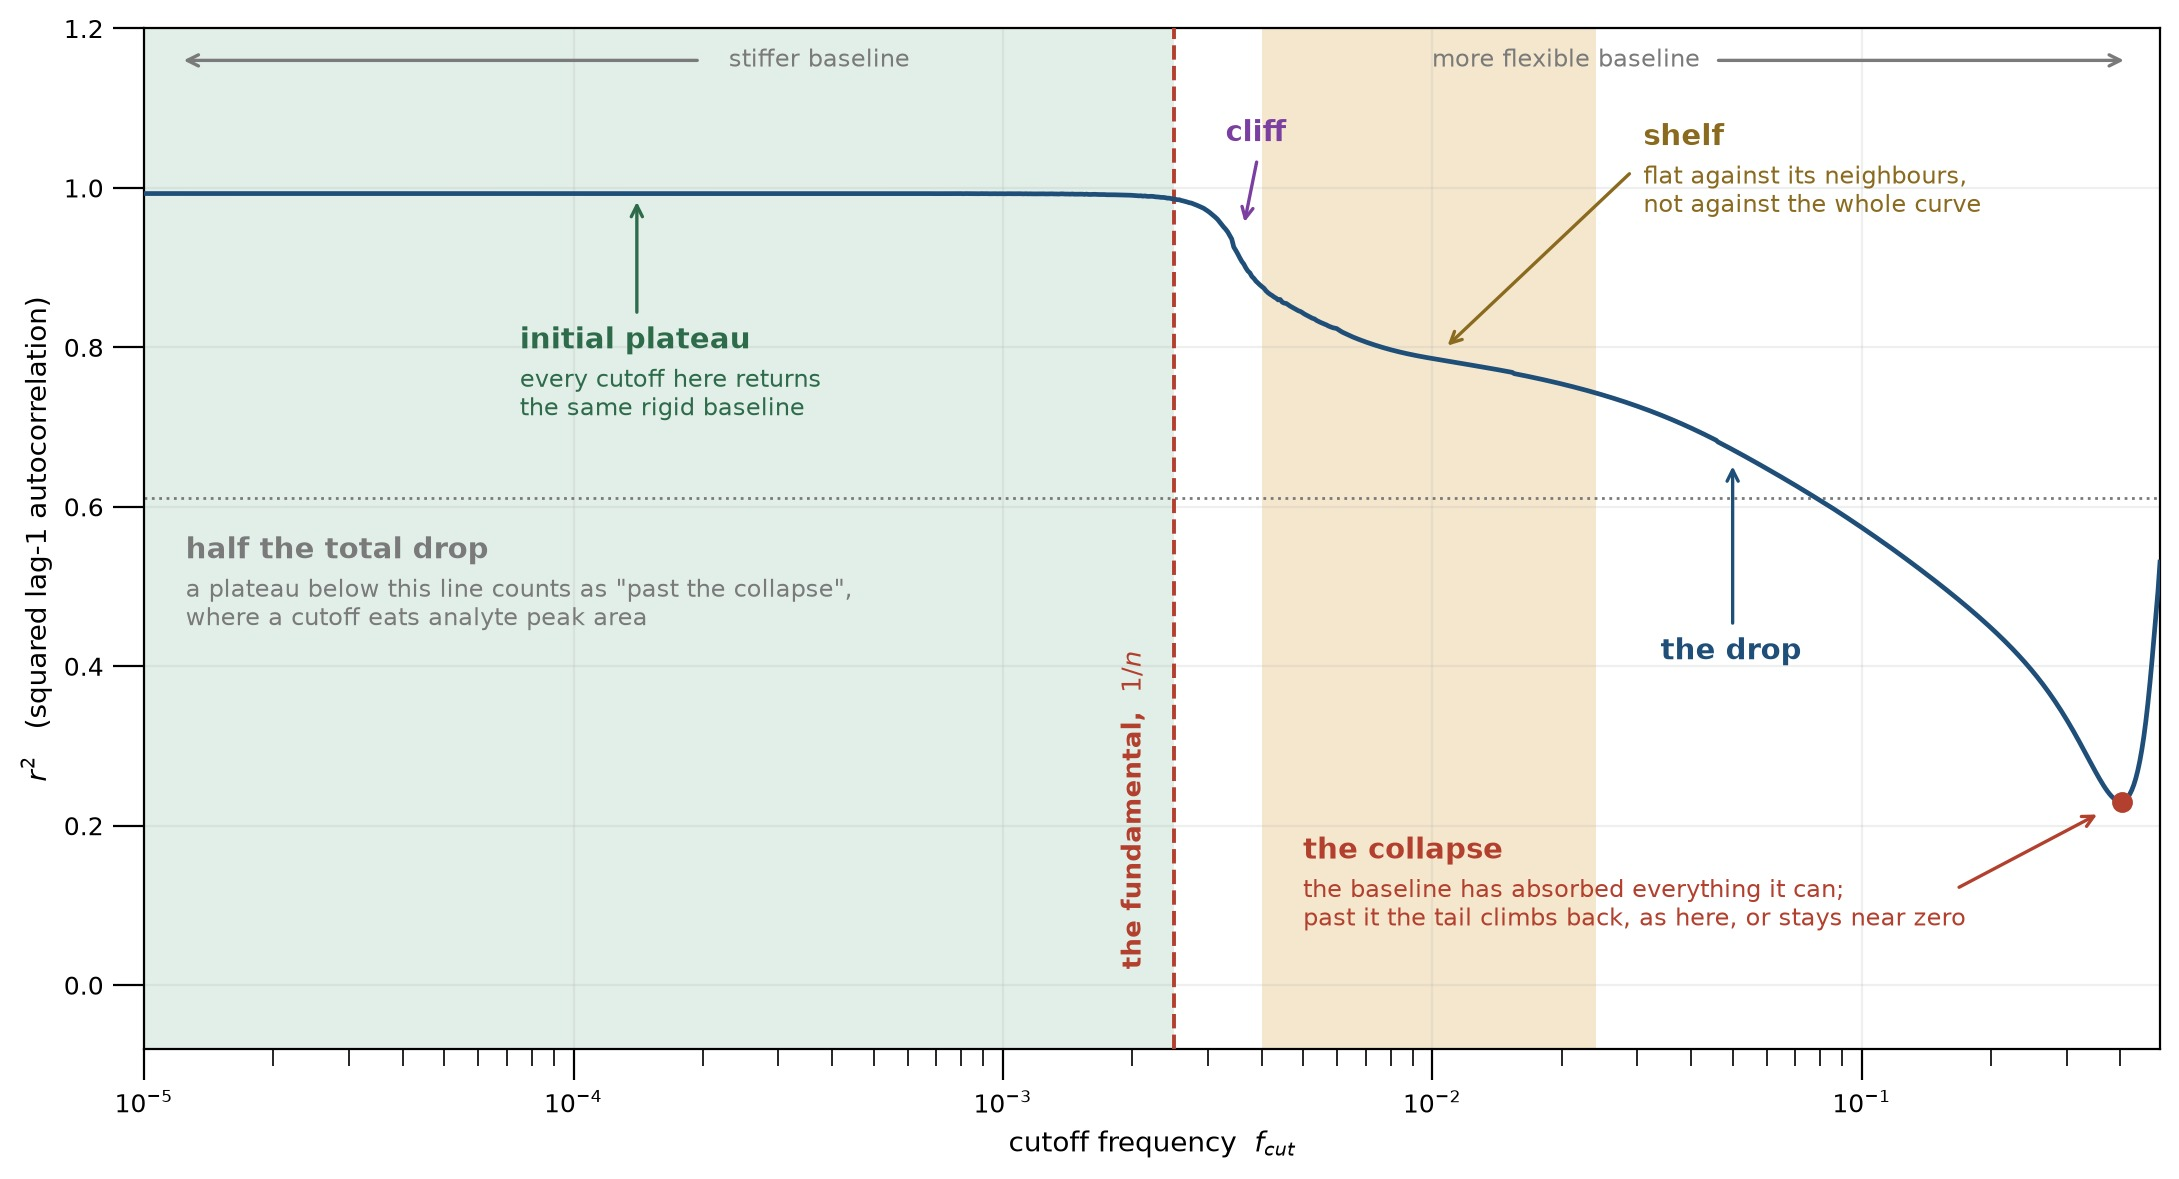
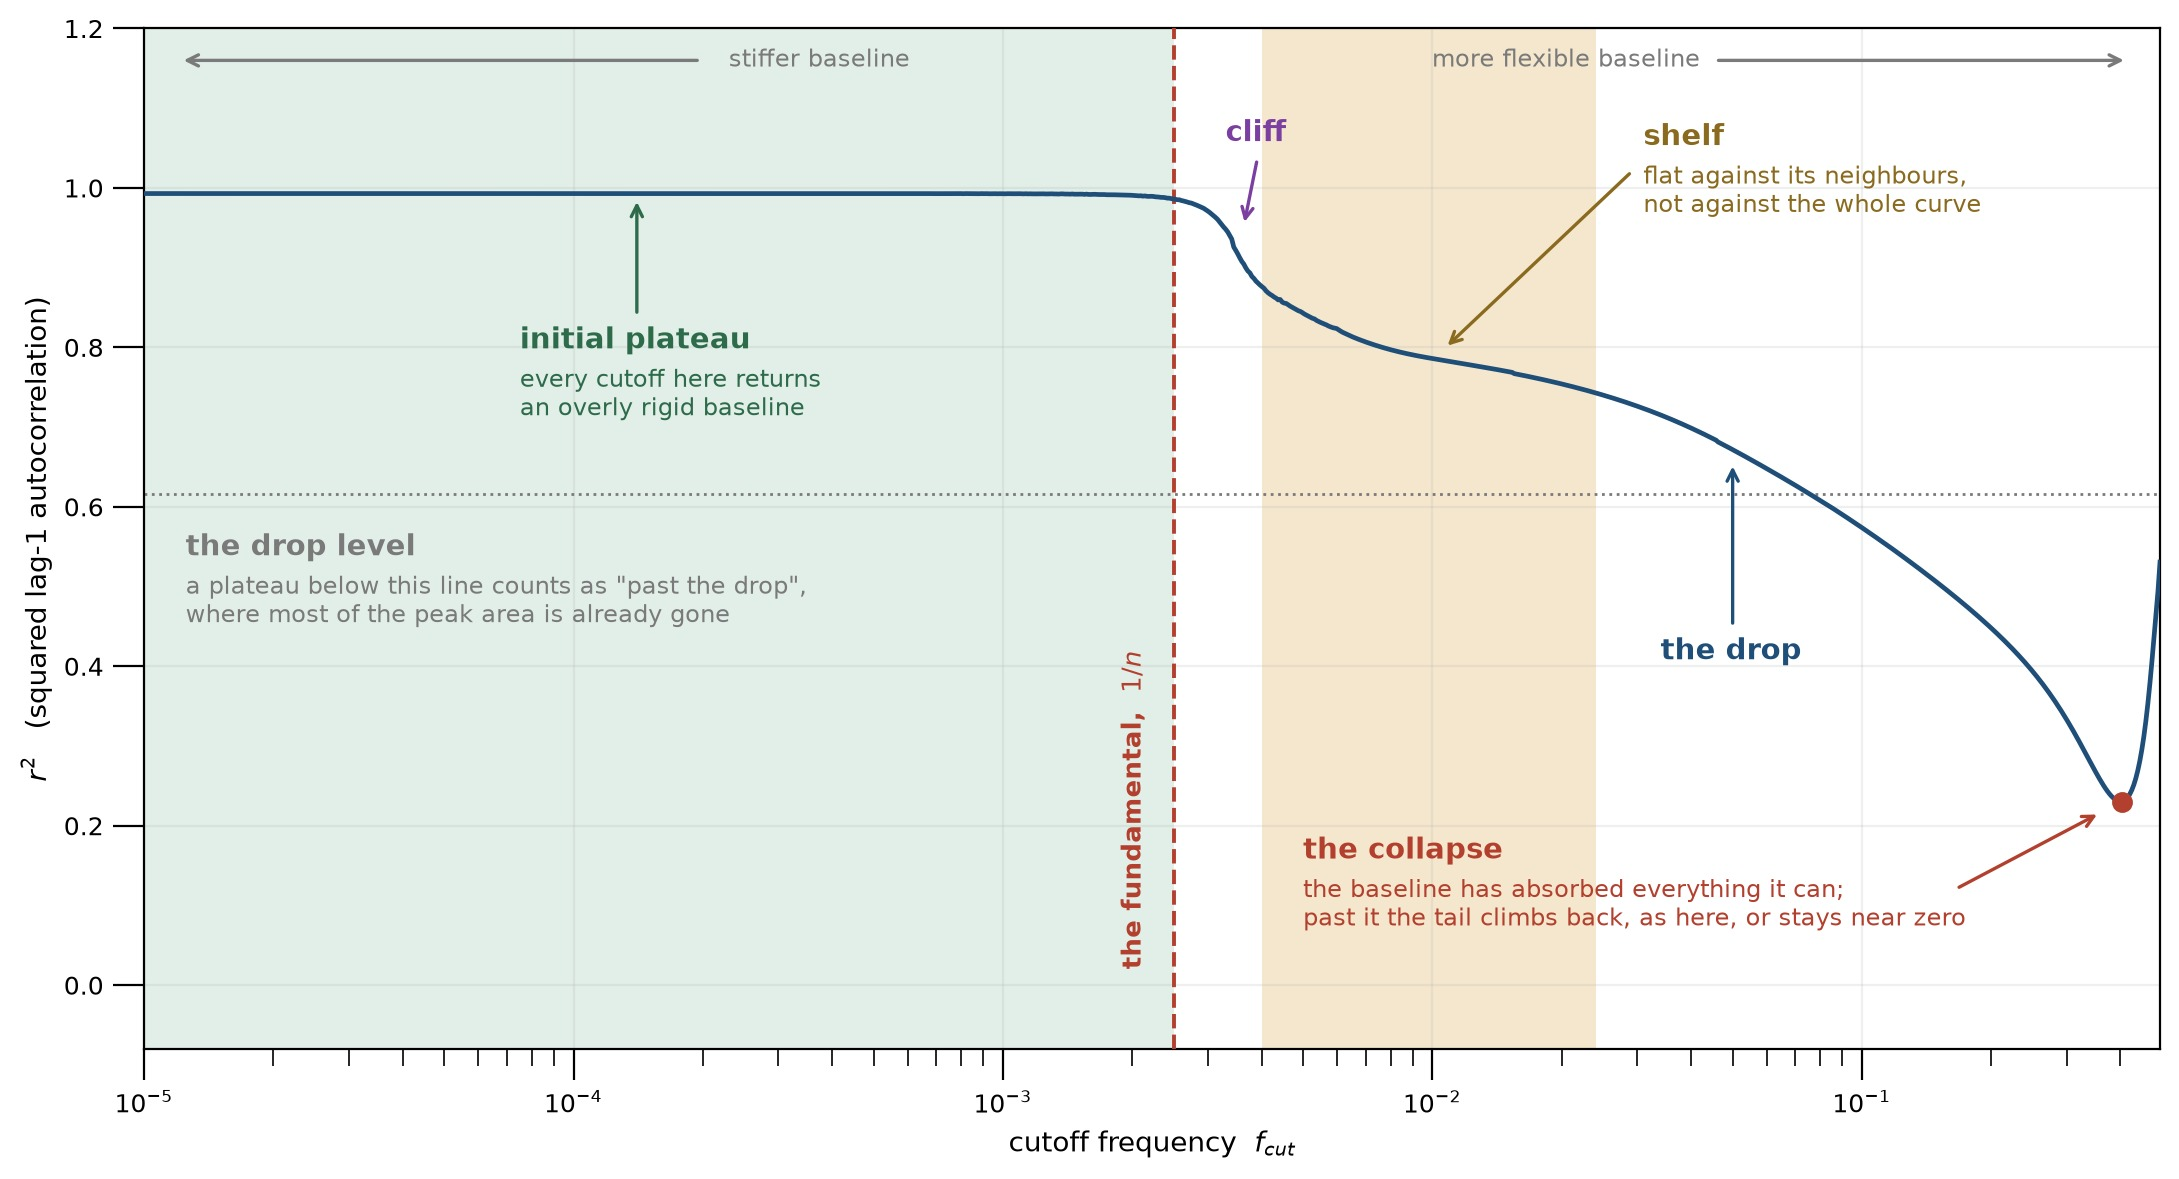
FIX: Draw Figure 1's drop level from the segment means
The line was computed from `np.nanmin(r2)` and `np.nanmax(r2)`, the raw
curve, while `trim_candidates` compares against the range of the segment
means. The drawn line was a second threshold rather than the one the
code applies.

The cache path pointed at `runs/DW_prod_2026-08-23`, deleted on
2026-08-24. Repointing it at `runs/PROD_2026-08-24` reproduces the
committed figure pixel for pixel, which is the provenance check that
regeneration was owed.

The label follows the rename and drops the claim that a cutoff past the
line eats analyte peak area. Measured against known baselines, most of
the area has gone before that line is reached.

Changed region(s): [[0.0936, 0.458, 0.3745, 0.5496], [0.2497, 0.3359, 0.2809, 0.3664]]

diff --git a/tools/fcut/figures/fig_vocab.py b/tools/fcut/figures/fig_vocab.py
@@ -25,12 +25,18 @@ matplotlib.use('Agg')
 matplotlib.rcParams['savefig.dpi'] = 200
 import matplotlib.pyplot as plt
 
+from weaselytics.segmentation import (  # noqa: E402
+    classify_segments,
+    pelt_linear,
+    segment_features,
+)
+
 CACHE = ('/home/esteban/Simulation/DFT/separation_part2/runs/'
-         'DW_prod_2026-08-23/r2_cache')
+         'PROD_2026-08-24/r2_cache')
 OUT = os.path.dirname(os.path.abspath(__file__))
 STEM = 'Chlorobenzene__LPYE__60-70__2'
 N_USED = 400
-COLLAPSE_LEVEL = 0.5
+DROP_LEVEL = 0.5
 
 TERM_SIZE = 10.5
 NOTE_SIZE = 8.5
@@ -45,8 +51,14 @@ def main():
     d = np.load(f)
     fr, r2 = d['fcut_range'], d['r2_val']
     fund = 1.0 / N_USED
-    lo, hi = float(np.nanmin(r2)), float(np.nanmax(r2))
-    half = lo + COLLAPSE_LEVEL * (hi - lo)
+    # The drop level is taken from the SEGMENT MEANS, the same scale
+    # `trim_candidates` compares against, so the drawn line is the
+    # threshold the code actually applies rather than a second one
+    # built on the raw curve.
+    means = [s['mean'] for s in
+             classify_segments(segment_features(fr, r2, pelt_linear(r2)))]
+    lo, hi = float(min(means)), float(max(means))
+    half = lo + DROP_LEVEL * (hi - lo)
 
     fig, ax = plt.subplots(figsize=(11.0, 6.0))
     ax.plot(fr, r2, lw=1.7, color=BLUE, zorder=4)
@@ -145,12 +157,12 @@ def main():
     ax.axhline(half, color=GREY, lw=1.0, ls=':', zorder=2)
 
     label(7.5e-5, 0.79, 'initial plateau',
-          'every cutoff here returns\nthe same rigid baseline',
+          'every cutoff here returns\nan overly rigid baseline',
           color=GREEN, arrow=(None, 0.993), side='up')
 
-    label(1.25e-5, half - 0.085, 'half the total drop',
-          'a plateau below this line counts as "past the collapse",\n'
-          'where a cutoff eats analyte peak area', color=GREY)
+    label(1.25e-5, half - 0.085, 'the drop level',
+          'a plateau below this line counts as "past the drop",\n'
+          'where most of the peak area is already gone', color=GREY)
 
     # the fundamental, along its own line
     ax.axvline(fund, color=RED, lw=1.4, ls='--', zorder=3)
